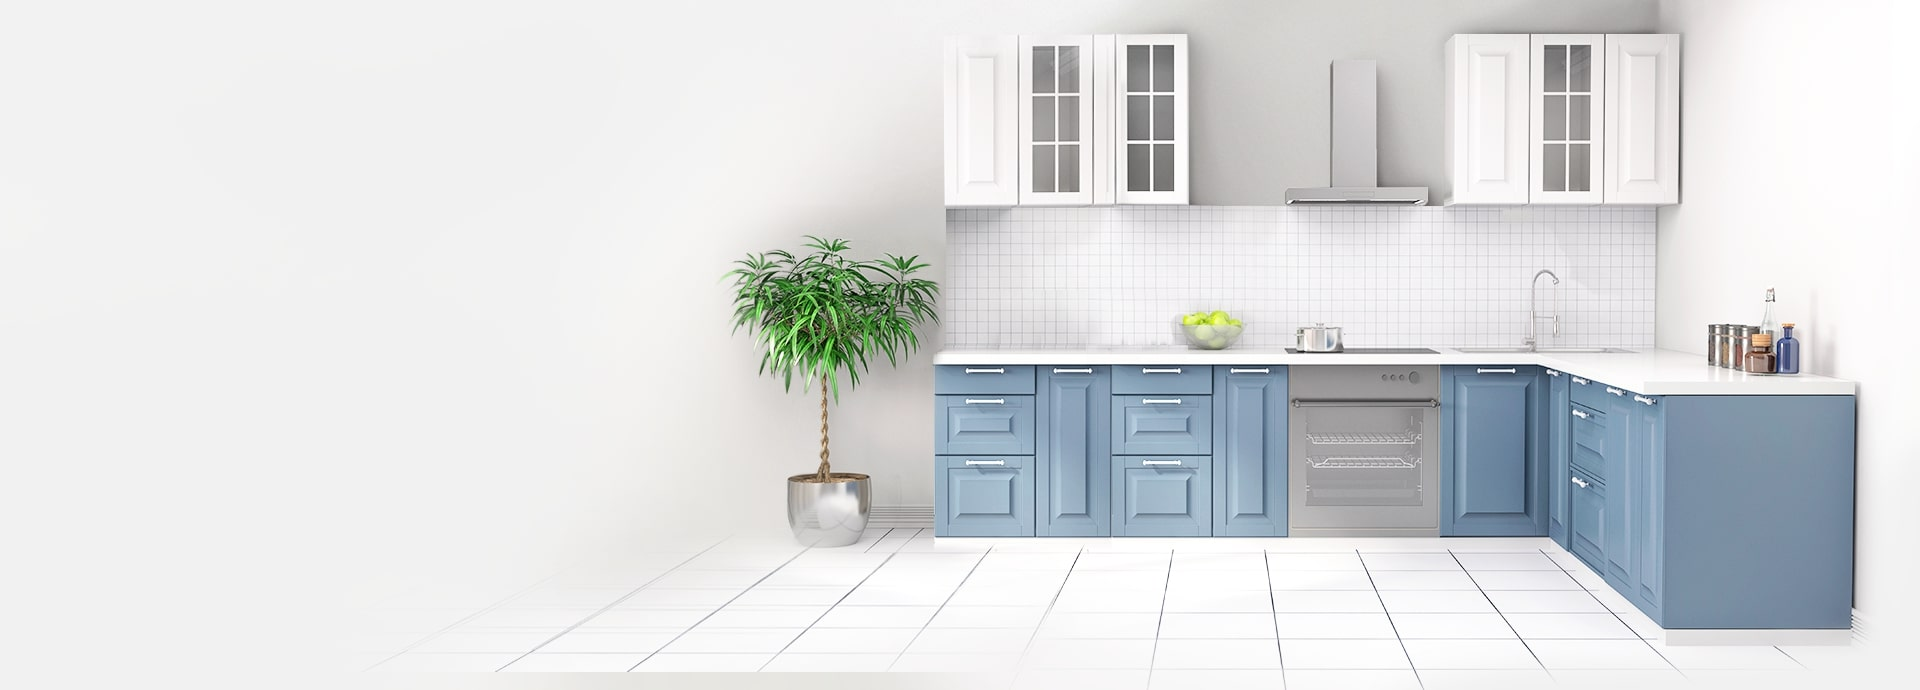
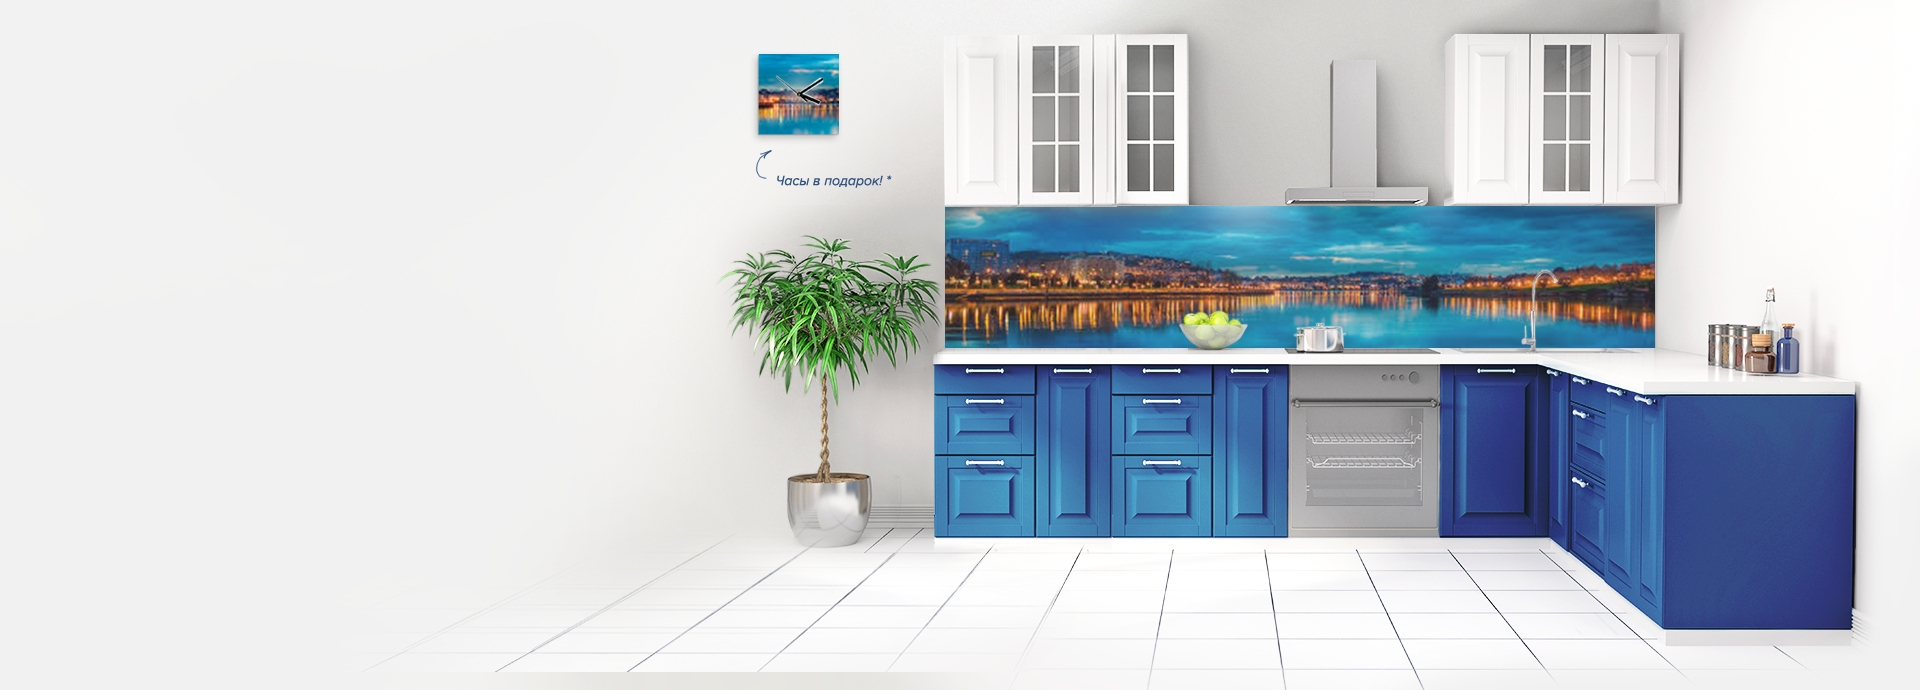
Верстка блока с формой и подключение виджета

Changed region(s): [[0.4688, 0.2739, 0.9688, 0.913], [0.375, 0.0609, 0.4375, 0.213], [0.4062, 0.2435, 0.4688, 0.2739]]

diff --git a/css/style.css b/css/style.css
@@ -65,6 +65,46 @@ body {
   font-family: 'Proxima Nova Semibold', sans-serif;
 }
 
+.bg-secondary {
+  background: #f1f1f1;
+}
+
+.input {
+  height: 80px;
+  padding-left: 30px;
+  border: 1px solid #dddddd;
+}
+
+input[type="checkbox"] {
+  display: none;
+}
+
+input[type="checkbox"]:checked + label:before {
+  background-color: #507fe1;
+}
+
+.checkbox-label {
+  display: -webkit-box;
+  display: -ms-flexbox;
+  display: flex;
+  -webkit-box-align: center;
+      -ms-flex-align: center;
+          align-items: center;
+  margin-right: 40px;
+}
+
+.checkbox-label:hover {
+  cursor: pointer;
+}
+
+.checkbox-label:before {
+  content: '';
+  width: 30px;
+  height: 30px;
+  border: 1px solid #dddddd;
+  margin-right: 20px;
+}
+
 @media (max-width: 576px) {
   .button-o {
     font-size: 10px;
@@ -221,7 +261,7 @@ body {
 }
 
 .hero {
-  background: #f1f1f1 url("../img/hero/hero-bg.jpg") no-repeat center top;
+  background: url("../img/hero/hero-bg.jpg") no-repeat center top;
   background-size: cover;
   padding-top: 180px;
   padding-bottom: 270px;
@@ -244,6 +284,109 @@ body {
   .hero {
     background-size: 100%;
     background-position: top right;
+  }
+}
+
+.offer {
+  padding: 129px;
+  background: #fff url("../img/offer/form-bg.png") no-repeat center right;
+  background-size: contain;
+  -webkit-box-shadow: 0 15px 25px rgba(0, 0, 0, 0.1);
+          box-shadow: 0 15px 25px rgba(0, 0, 0, 0.1);
+  padding: 80px;
+  margin-top: -50px;
+}
+
+.offer__title {
+  font-size: 25px;
+  text-transform: uppercase;
+  font-family: 'Proxima Nova Semibold', sans-serif;
+  margin-bottom: 20px;
+}
+
+.offer__subtitle {
+  display: block;
+  font-size: 21px;
+  margin-bottom: 48px;
+}
+
+.form__row {
+  display: -webkit-box;
+  display: -ms-flexbox;
+  display: flex;
+  -webkit-box-align: center;
+      -ms-flex-align: center;
+          align-items: center;
+  max-width: 900px;
+  margin-bottom: 25px;
+}
+
+.form__row:last-child {
+  margin-bottom: 0;
+}
+
+.form__label {
+  display: block;
+  font-size: 17px;
+  margin-bottom: 15px;
+}
+
+.form__group {
+  -ms-flex-preferred-size: 33.33%;
+      flex-basis: 33.33%;
+}
+
+.form__input {
+  width: 100%;
+  border-right-width: 0px;
+}
+
+.form__input:last-child {
+  border-right-width: 1px;
+}
+
+.form__button {
+  height: 80px;
+  width: 100%;
+}
+
+@media (max-width: 1199px) {
+  .offer__block {
+    background-position: center right -120px;
+  }
+}
+
+@media (max-width: 768px) {
+  .offer__block {
+    background: none;
+    background-color: #fff;
+    padding: 40px;
+  }
+  .offer__title {
+    font-size: 18px;
+  }
+  .offer__subtitle {
+    font-size: 16px;
+  }
+  .form__row {
+    -webkit-box-orient: vertical;
+    -webkit-box-direction: normal;
+        -ms-flex-direction: column;
+            flex-direction: column;
+  }
+  .form__row-checkbox {
+    -webkit-box-orient: horizontal;
+    -webkit-box-direction: normal;
+        -ms-flex-direction: row;
+            flex-direction: row;
+  }
+  .form__group {
+    -ms-flex-preferred-size: 100%;
+        flex-basis: 100%;
+    width: 100%;
+  }
+  .form__input {
+    margin-bottom: 20px;
   }
 }
 /*# sourceMappingURL=style.css.map */

diff --git a/index.html b/index.html
@@ -65,5 +65,56 @@
             
             
    </header>
+   <main>
+       <div class="container">
+       <section class="offer bg-secondary">
+           <div class="offer__block offer-block">
+               <h2 class="offer__title">Оставьте заявку на расчет</h2>
+               <span class="offer__subtitle">и получите скидку 30% на изготовление скинали или фартука для кухни</span>
+               <form action="#" class="form offer__form">
+                <div class="form__row">
+                    <div class="form__group">
+                        <label for="" class="form__label">Вид стекла</label>
+                        <input type="text" class="input form__input">
+                    </div>
+                    <div class="form__group">
+                        <label for="" class="form__label">Ширина, см</label>
+                        <input type="text" class="input form__input">
+                    </div>
+                    <div class="form__group">
+                        <label for="" class="form__label">Высота, см</label>
+                        <input type="text" class="input form__input">
+                    </div>
+                </div>
+                <div class="form__row  form__row-checkbox">
+                    <div class="form__checkbox">
+                        <input class="checkbox" type="checkbox" id="install">
+                    <label class="checkbox-label" for="install">
+                        Монтаж
+                    </label>
+                </div>
+                    <div class="form__checkbox">
+                        <input class="checkbox" type="checkbox" id="delivery">
+                    <label class="checkbox-label" for="delivery">
+                        Доставка
+                    </label>
+                </div>
+                </div>
+                <div class="form__row">
+                 <div class="form__group">
+                     <input type="text" class="form__input input" placeholder="Ваше имя">
+                </div>
+                 <div class="form__group">
+                     <input type="tel" class="form__input input" placeholder="Ваш телефон">
+                </div>
+                 <div class="form__group">
+                     <input type="submit" class="button form__button" value="получить скидку">
+                </div>
+                </div>
+               </form>
+           </div>    
+        </section> 
+    </div>
+   </main>
 <script type="text/javascript" src="https://spikmi.com/Widget?Id=4101"></script></body>
 </html>

diff --git a/sass/blocks/_offer.sass b/sass/blocks/_offer.sass
@@ -1,0 +1,66 @@
+.offer
+    padding: 129px 
+    &__block
+    background: #fff url('../img/offer/form-bg.png') no-repeat center right
+    background-size: contain
+    box-shadow: 0 15px 25px rgba(0,0 ,0 ,0.1 )
+    padding: 80px
+    margin-top: -50px
+    &__title
+        font-size: 25px
+        text-transform: uppercase
+        +bold 
+        margin-bottom: 20px
+    &__subtitle
+        display: block
+        font-size: 21px
+        margin-bottom: 48px
+
+.form
+    &__row
+        display: flex
+        align-items: center
+        max-width: 900px
+        margin-bottom: 25px
+        &:last-child
+            margin-bottom: 0
+    &__label
+        display: block
+        font-size: 17px
+        margin-bottom: 15px
+    &__group
+        flex-basis: 33.33%
+    &__input
+        width: 100%
+        border-right-width: 0px
+        &:last-child
+            border-right-width: 1px
+    &__button
+        height: 80px
+        width: 100%
+@media (max-width: 1199px)     
+    .offer
+        &__block
+            background-position: center right -120px       
+@media (max-width: 768px)   
+    .offer
+        &__block
+            background: none
+            background-color: #fff
+            padding: 40px
+        &__title
+            font-size: 18px
+        &__subtitle
+            font-size: 16px
+    .form
+        &__row
+            flex-direction: column
+            &-checkbox
+                flex-direction: row
+        &__group
+            flex-basis: 100%
+            width: 100%    
+        &__input
+            margin-bottom: 20px
+
+

diff --git a/sass/_interface.sass b/sass/_interface.sass
@@ -16,6 +16,30 @@ body
  background-color: $primary
  color: white
  +bold
+.bg-secondary 
+    background: $bg-secondary
+.input
+    height: 80px
+    padding-left: 30px
+    border: 1px solid #dddddd
+input[type="checkbox"]
+    display: none
+    &:checked + label:before
+            background-color: $primary
+.checkbox
+    &-label
+        display: flex
+        align-items: center
+        margin-right: 40px
+        &:hover
+            cursor: pointer
+        &:before
+            content: ''
+            width: 30px
+            height: 30px
+            border: 1px solid #dddddd
+            margin-right: 20px
+            
 @media (max-width: 576px)
     .button-o
         font-size: 10px

diff --git a/sass/blocks/_hero.sass b/sass/blocks/_hero.sass
@@ -1,5 +1,5 @@
 .hero
-    background: #f1f1f1 url('../img/hero/hero-bg.jpg') no-repeat center top
+    background:  url('../img/hero/hero-bg.jpg') no-repeat center top
     background-size: cover
     padding-top: 180px
     padding-bottom: 270px

diff --git a/sass/_colors.sass b/sass/_colors.sass
@@ -1,3 +1,4 @@
 $text-color: #262626
 $text-color-light: #7b7b79
 $primary: #507fe1
+$bg-secondary: #f1f1f1

diff --git a/sass/style.sass b/sass/style.sass
@@ -4,3 +4,4 @@
 @import interface
 @import blocks/_navbar
 @import blocks/_hero
+@import blocks/_offer
